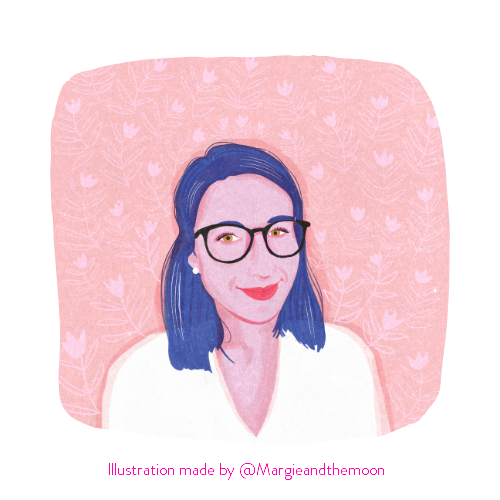
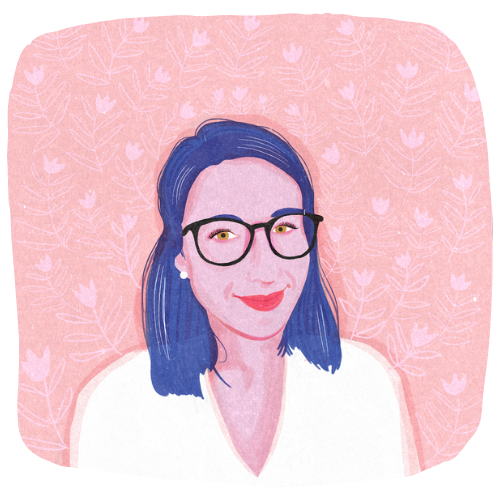
update

diff --git a/css/styles.css b/css/styles.css
@@ -23,19 +23,22 @@ body {
 	justify-content: center; /* Horizontally centre content in the viewport */
 
 	min-height: 100vh; /* Force vertical centering since the content won't always be taller than the viewport */
-	padding: 2rem; /* Using rem values as they don't cascade like em units and are not fixed units like pixels */
+	padding: 5rem; /* Using rem values as they don't cascade like em units and are not fixed units like pixels */
 
 	background-image: linear-gradient(rgba(255,6,168,.8), rgba(255,6,168,.6)), url('../img/background.png'); /* Multiple Background images, semi-transparent gradient used as a fallback for Edge */
 	background-position: center center;
 	background-size: cover;
+	background-image: linear-gradient(rgba(255,6,168,.03), rgba(255,6,168,.1)), url('../img/background.png'); /* Multiple background images, Gradient overlay and the Image */
+	background-blend-mode: multiply; /* Blending the Gradient with the Background Image (can't use black to blend) */
 }
 
-@supports(background-blend-mode: multiply) { /* Use a blend mode on the background in browser that support it */
-
+@media only screen and (max-width: 450px) {
 	body {
-		background-image: linear-gradient(rgba(255,6,168,.03), rgba(255,6,168,.1)), url('../img/background.png'); /* Multiple background images, Gradient overlay and the Image */
-		background-blend-mode: multiply; /* Blending the Gradient with the Background Image (can't use black to blend) */
+		padding: 2rem;
+		}
 	}
+
+@supports(background-blend-mode: multiply) { /* Use a blend mode on the background in browser that support it */
 }
 
 h1 {
@@ -59,14 +62,22 @@ p {
 	min-height: 55vh; /* Always at least 55% of the viewport */
 
 	background-color: white; /* Set background colour of our content card */
-	box-shadow: 0 2px 4px rgba(0, 0, 0, 0.5); /* Add a subtle drop shadow */
+	box-shadow: 6px 6px 12px rgba(253,236,237, 0.7); /* Add a subtle drop shadow */
 }
 
 	.card__image-container {
 		background-image: url('../img/Aurore.png');
-        background-size: contain;
-        background-repeat: no-repeat;
+    background-size: contain;
+    background-repeat: no-repeat;
 		background-position: center center; /* Position the image in the middle */
+		margin: 20px;
+	}
+
+	@media only screen and (max-width: 450px){
+		.card__image-container {
+			margin: 9px;
+
+		}
 	}
 
 
